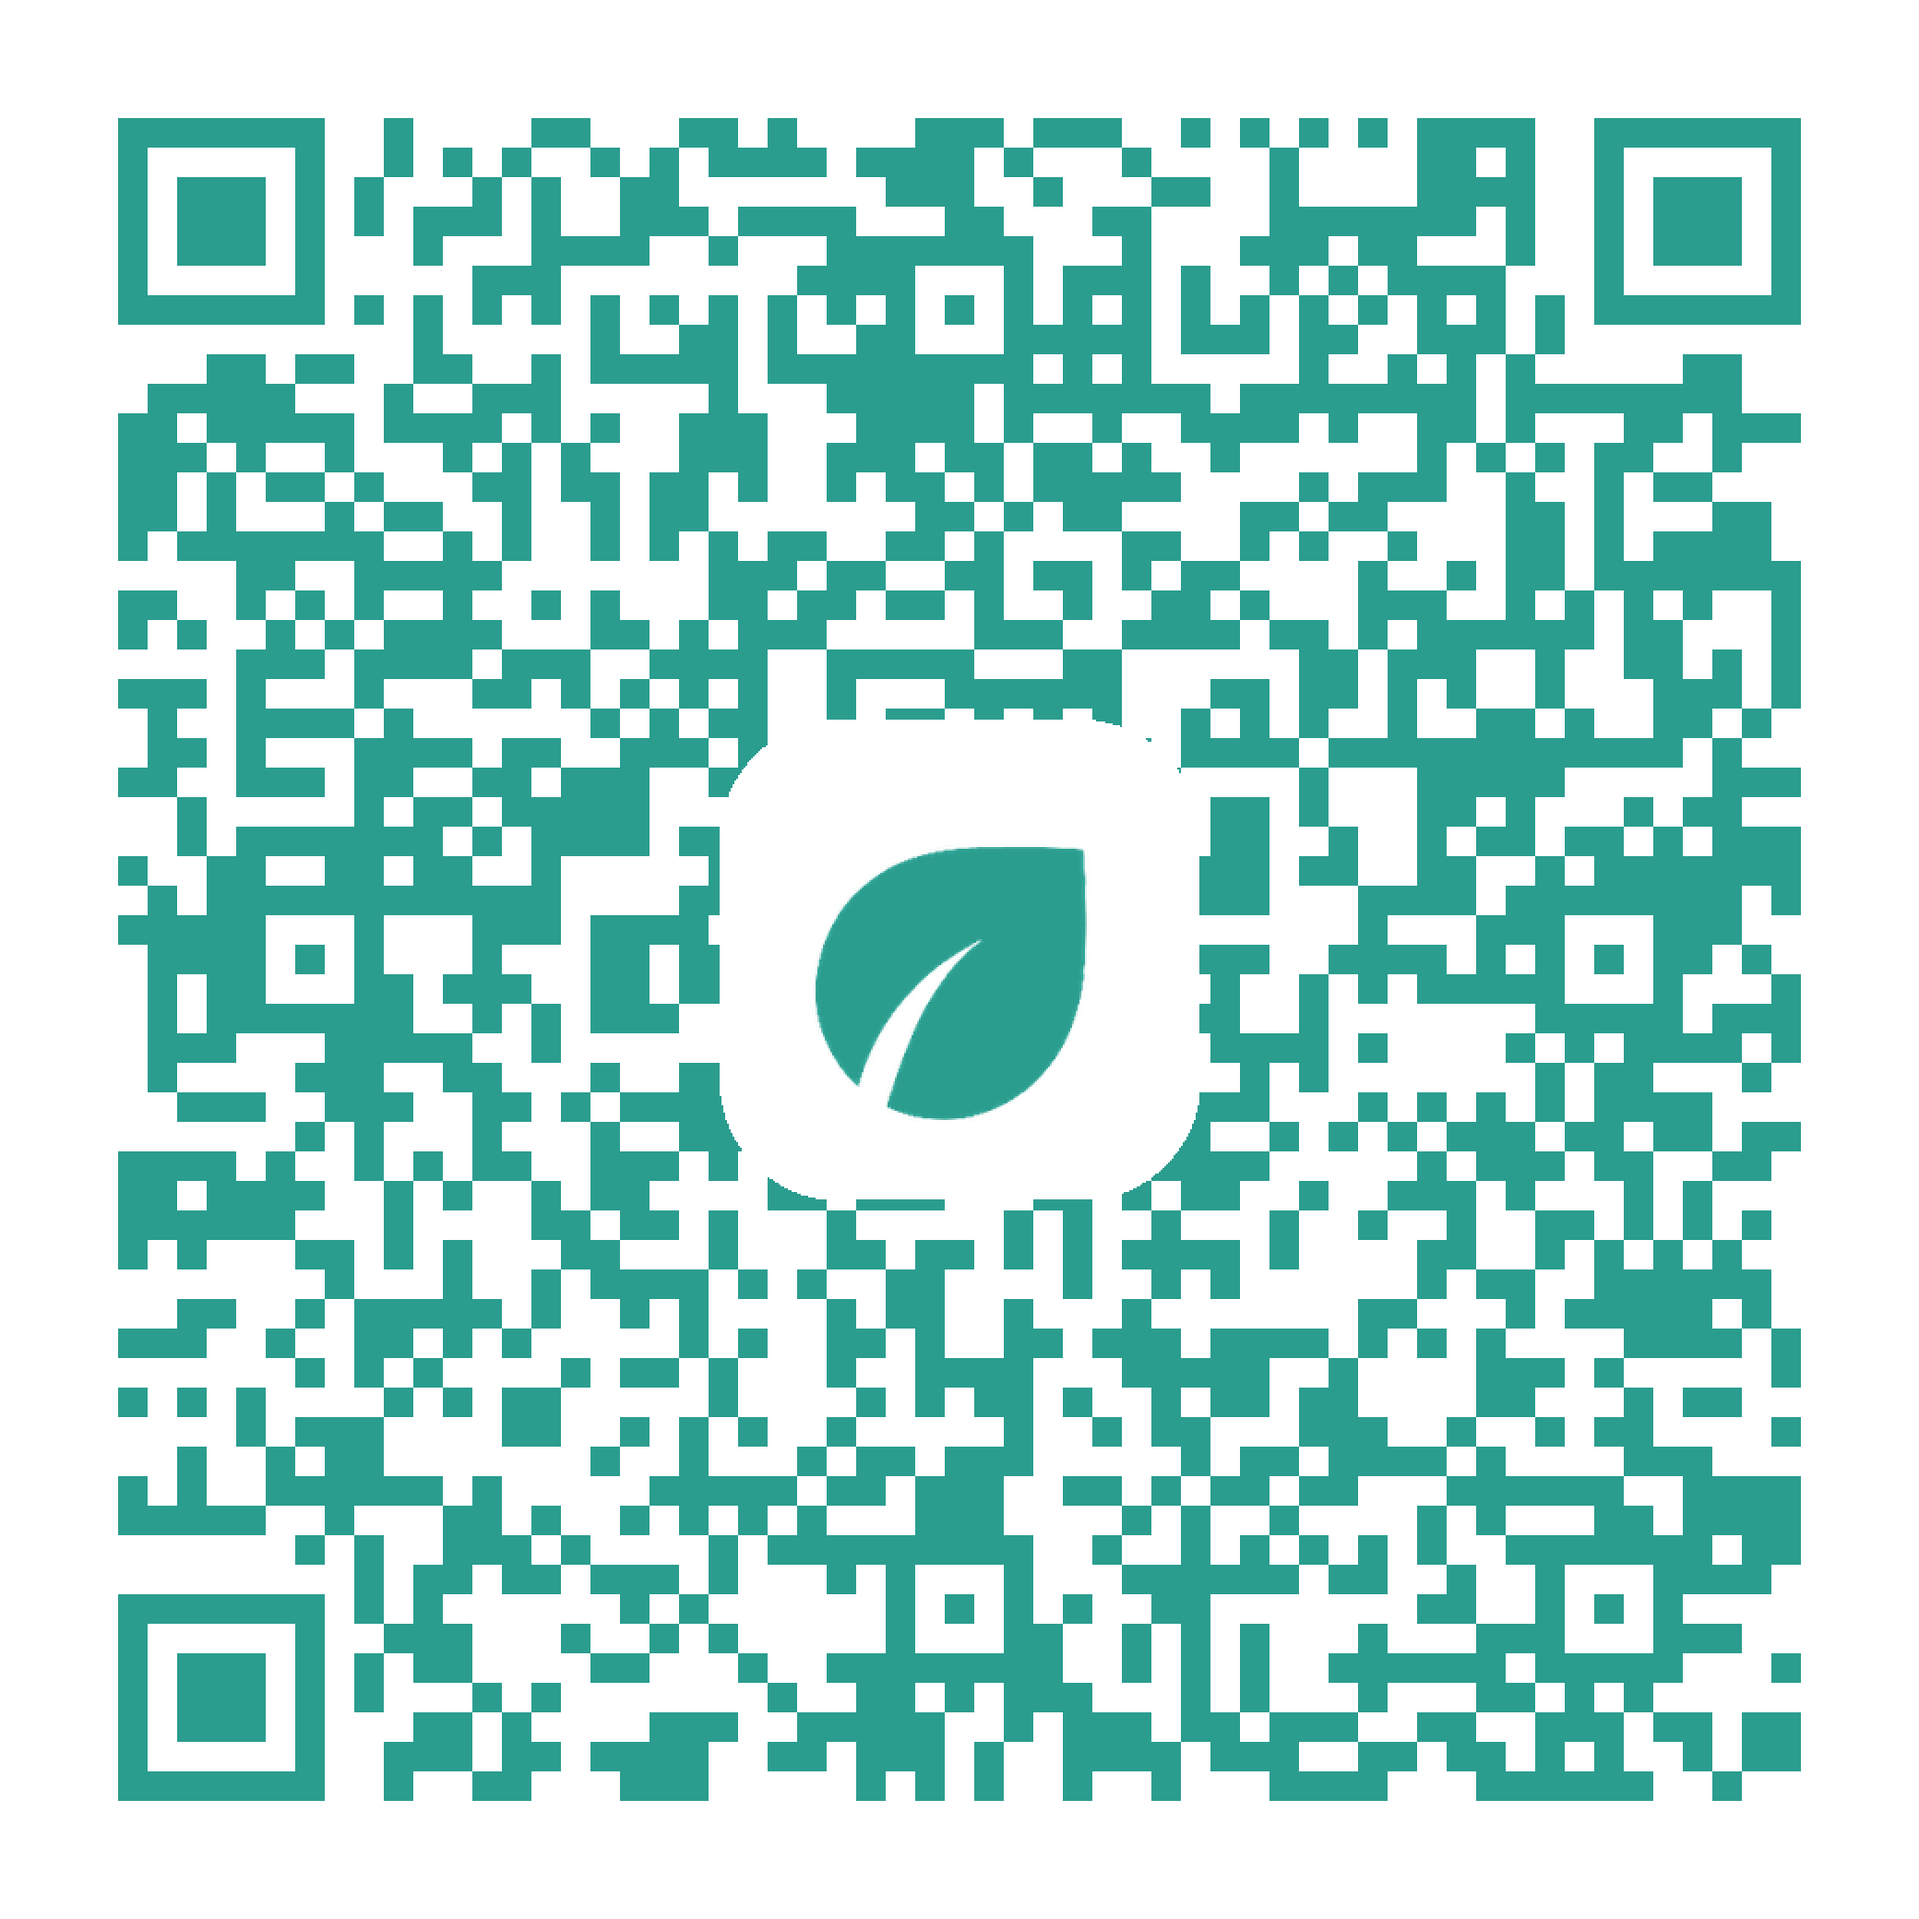
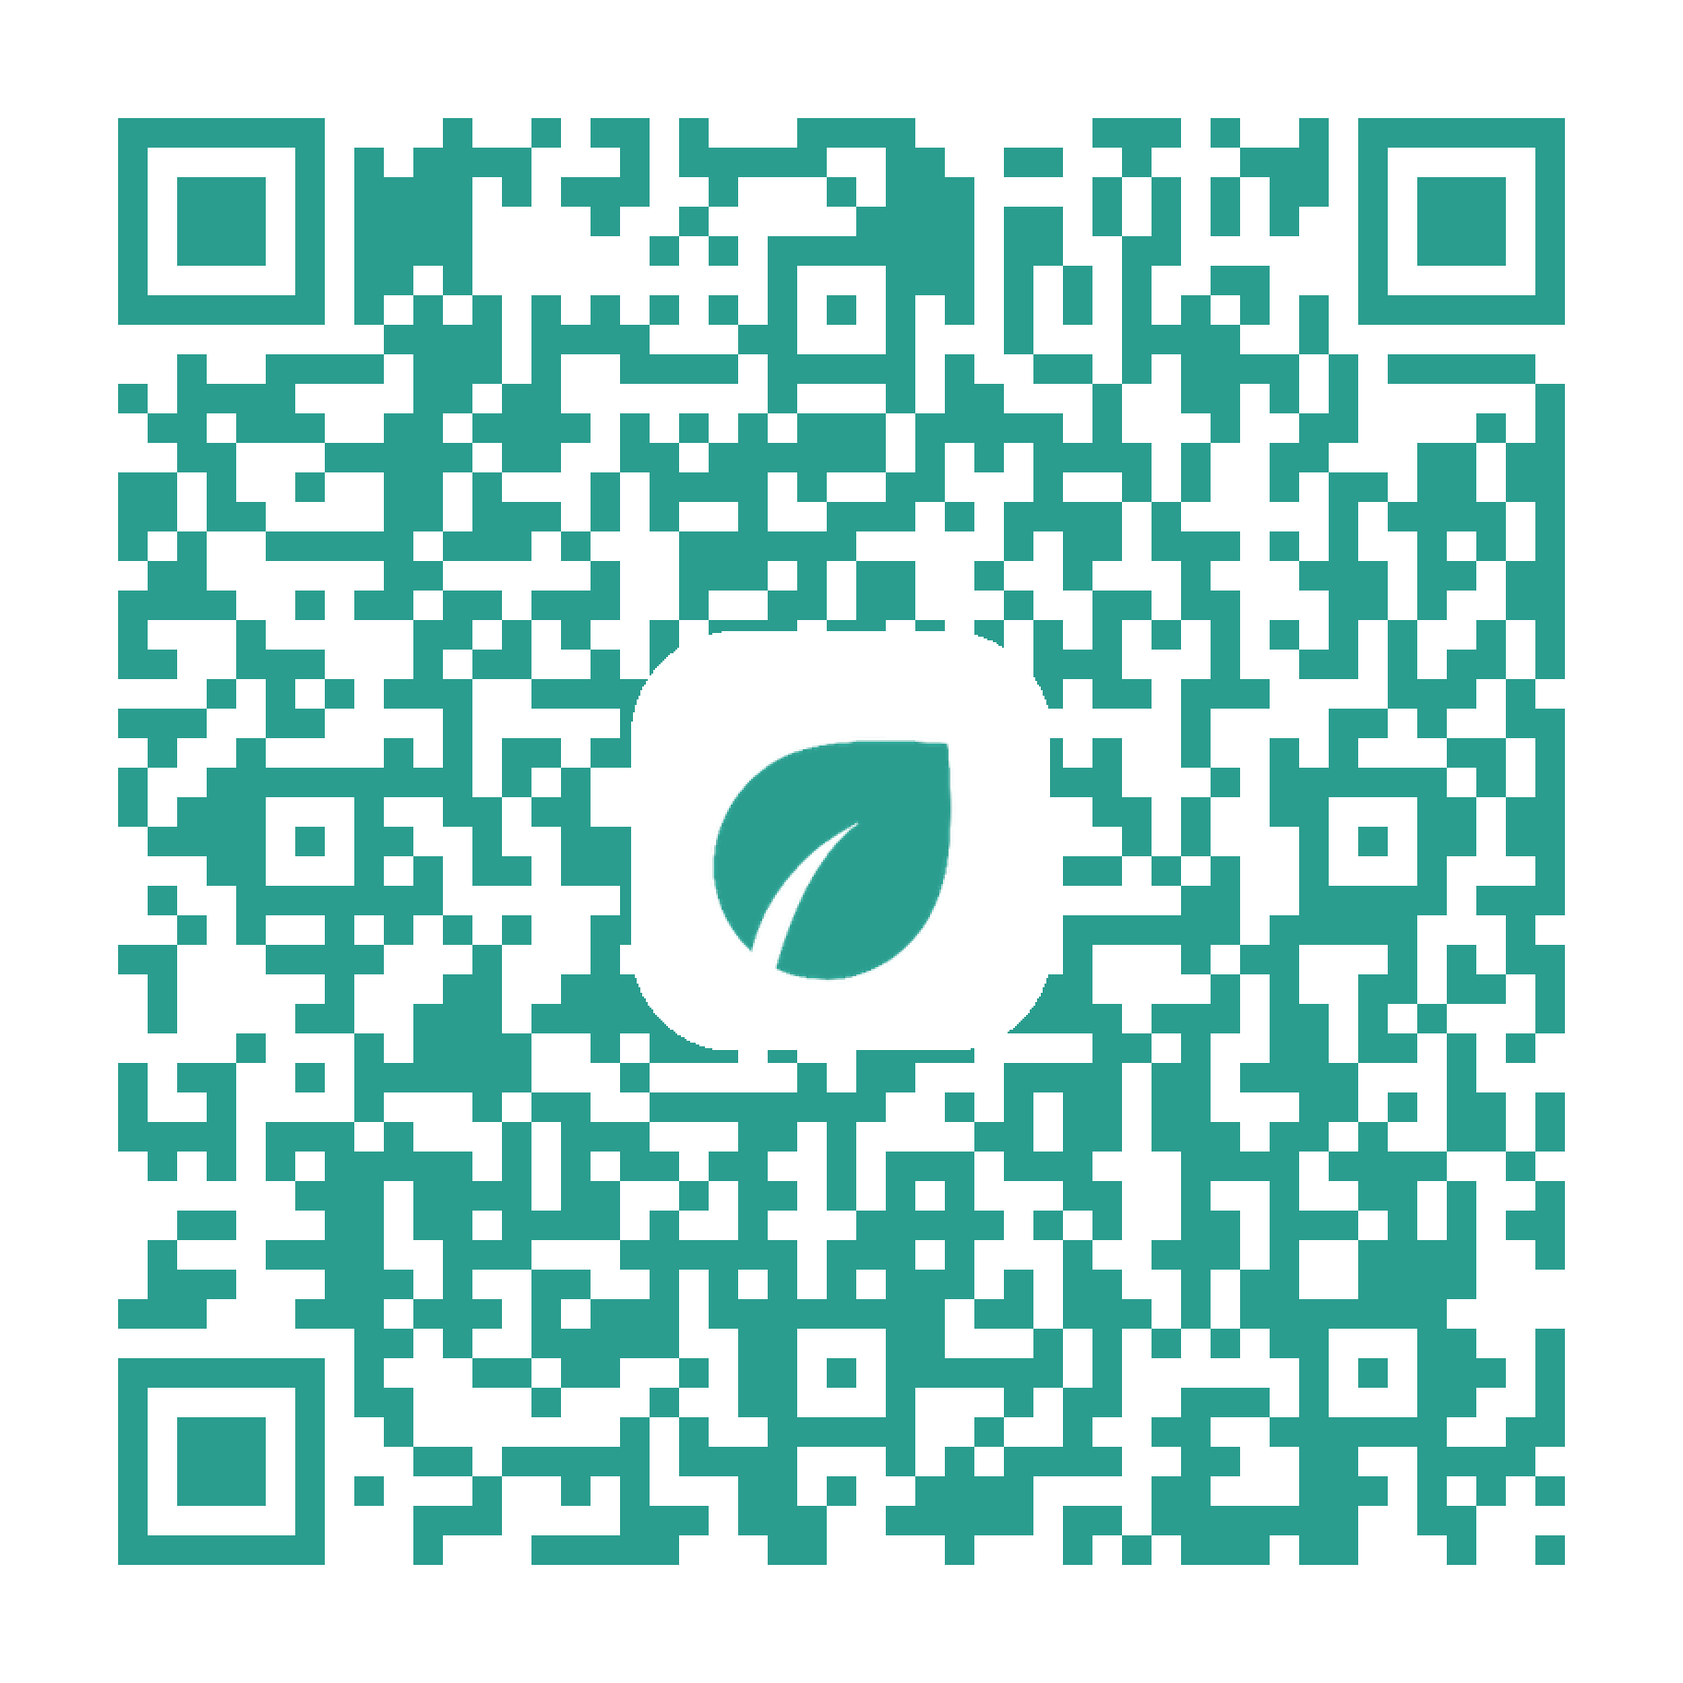
fix: Fixed qr urls duplicated ecollecta-minimal

diff --git a/run_admin.py b/run_admin.py
@@ -9,7 +9,7 @@ IMAGES_PATH = os.path.join(PUBLIC_PATH, 'images')
 PDFS_PATH = os.path.join(PUBLIC_PATH, 'pdfs')
 QRS_PATH = os.path.join(PUBLIC_PATH, 'qrs')
 DATA_FILE = os.path.join(os.path.dirname(__file__), 'src', 'data', 'species.json')
-DEPLOYMENT_URL = "https://programming-club-ulsa.github.io/ecollecta-minimal"
+DEPLOYMENT_URL = "https://programming-club-ulsa.github.io"
 
 
 def validate_paths():
